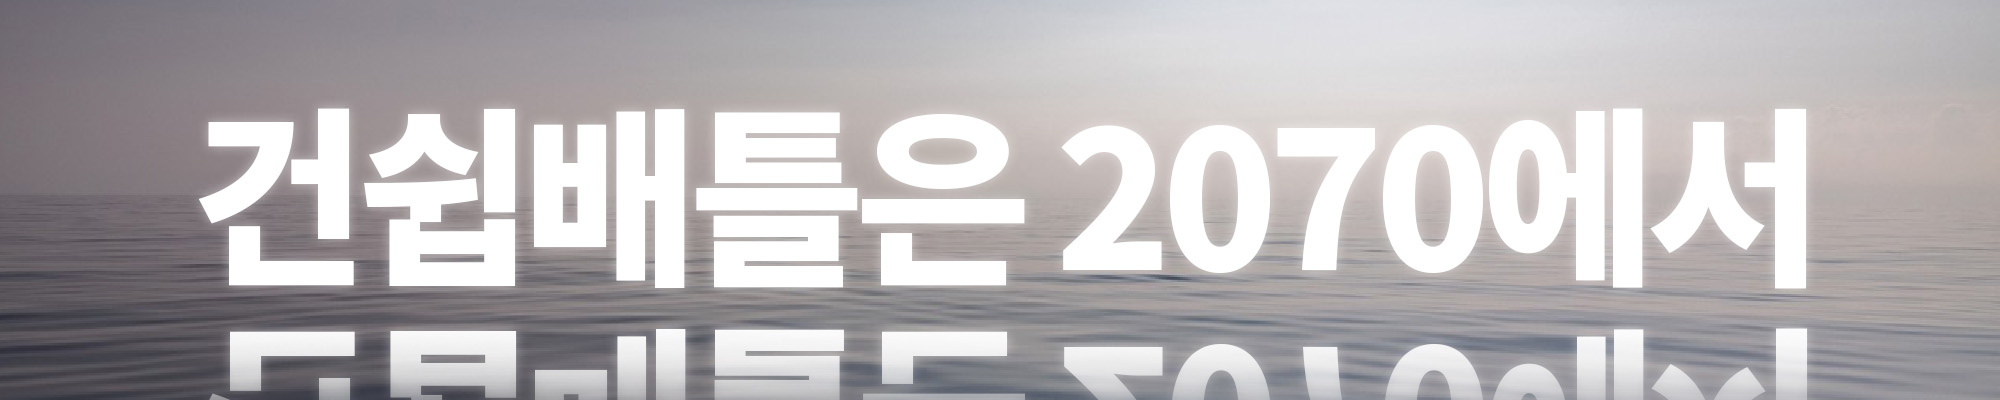
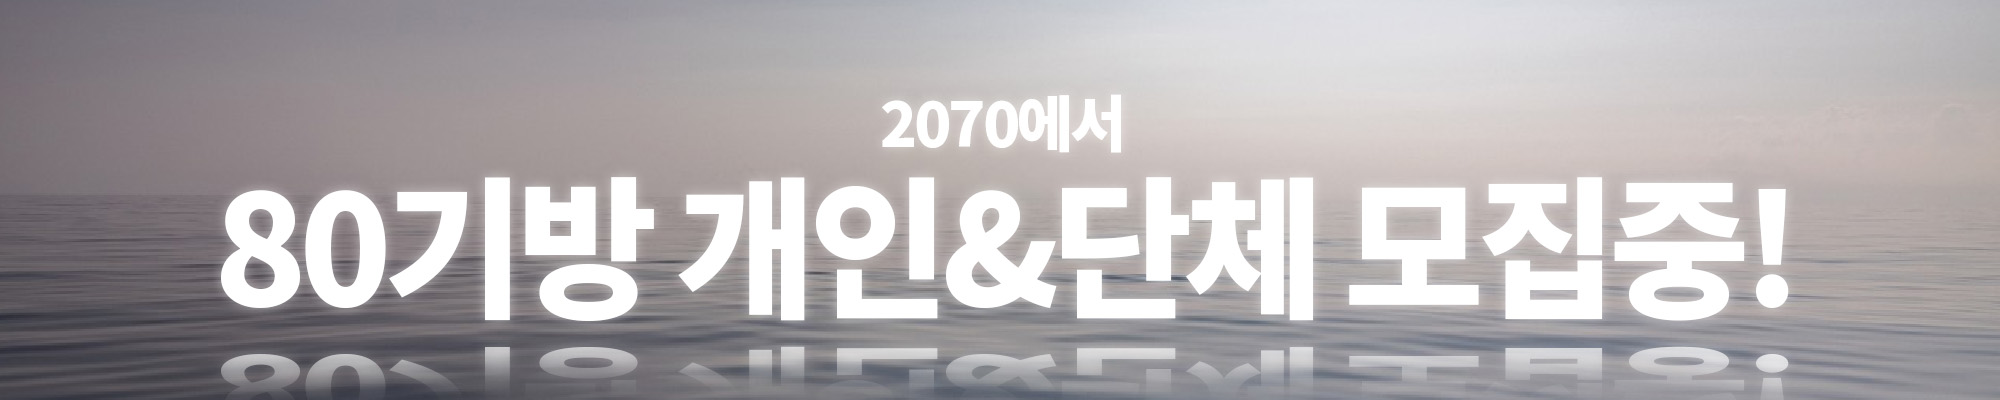
update

diff --git a/index.html b/index.html
@@ -68,12 +68,12 @@
         <h1>쿠폰모음</h1>
     </div>
     <p class="subtitle">
-      last update 24/08/17
+      last update 24/09/05
     </p>
   </div>
   <div class="ad">
-    <a href="https://navy.jisby.com/gc#manual">
-      <img src="images/ad/manual.jpg">
+    <a href="https://gw-community.joycity.com/gw/findCrew/view?boardItemNo=137663">
+      <img src="images/ad/2070.jpg">
     </a>
   </div>
   <div class="deadline">

diff --git a/js/coupons.js b/js/coupons.js
@@ -1,4 +1,7 @@
 var couponData = [
+    { text: "ALJETBRA", date: "2024-10-31T23:59:00Z" },
+    { text: "PEACE OUT AUG", date: "2024-09-30T23:59:00Z" },
+    { text: "SKYS THE LIMIT", date: "2024-09-30T23:59:00Z" },
     { text: "SCREAMING EAGLES", date: "2024-09-30T23:59:00Z" },
     { text: "ETERNAL LIGHT", date: "2024-09-30T23:59:00Z" },
     { text: "HAPPYMARRIAGE", date: "2024-09-30T23:59:00Z" },

diff --git a/notice.html b/notice.html
@@ -29,7 +29,7 @@
         <h1>NOTICE</h1>
     </div>
     <p class="subtitle">
-      last update 24/08/17
+      last update 24/09/05
     </p>
   </div>
   <a class="home" href="https://gbtwcoupon.jisby.com/">홈으로 가기</a>

diff --git a/us/notice.html b/us/notice.html
@@ -29,7 +29,7 @@
         <h1>NOTICE</h1>
     </div>
     <p class="subtitle">
-      last update 08/17/24
+      last update 09/05/24
     </p>
   </div>
   <a class="home" href="https://gbtwcoupon.jisby.com/us">Home</a>

diff --git a/us.html b/us.html
@@ -61,7 +61,7 @@
         <h1>Promo Codes</h1>
     </div>
     <p class="subtitle">
-      last update 08/17/24
+      last update 09/05/24
     </p>
   </div>
   <div class="ad">
